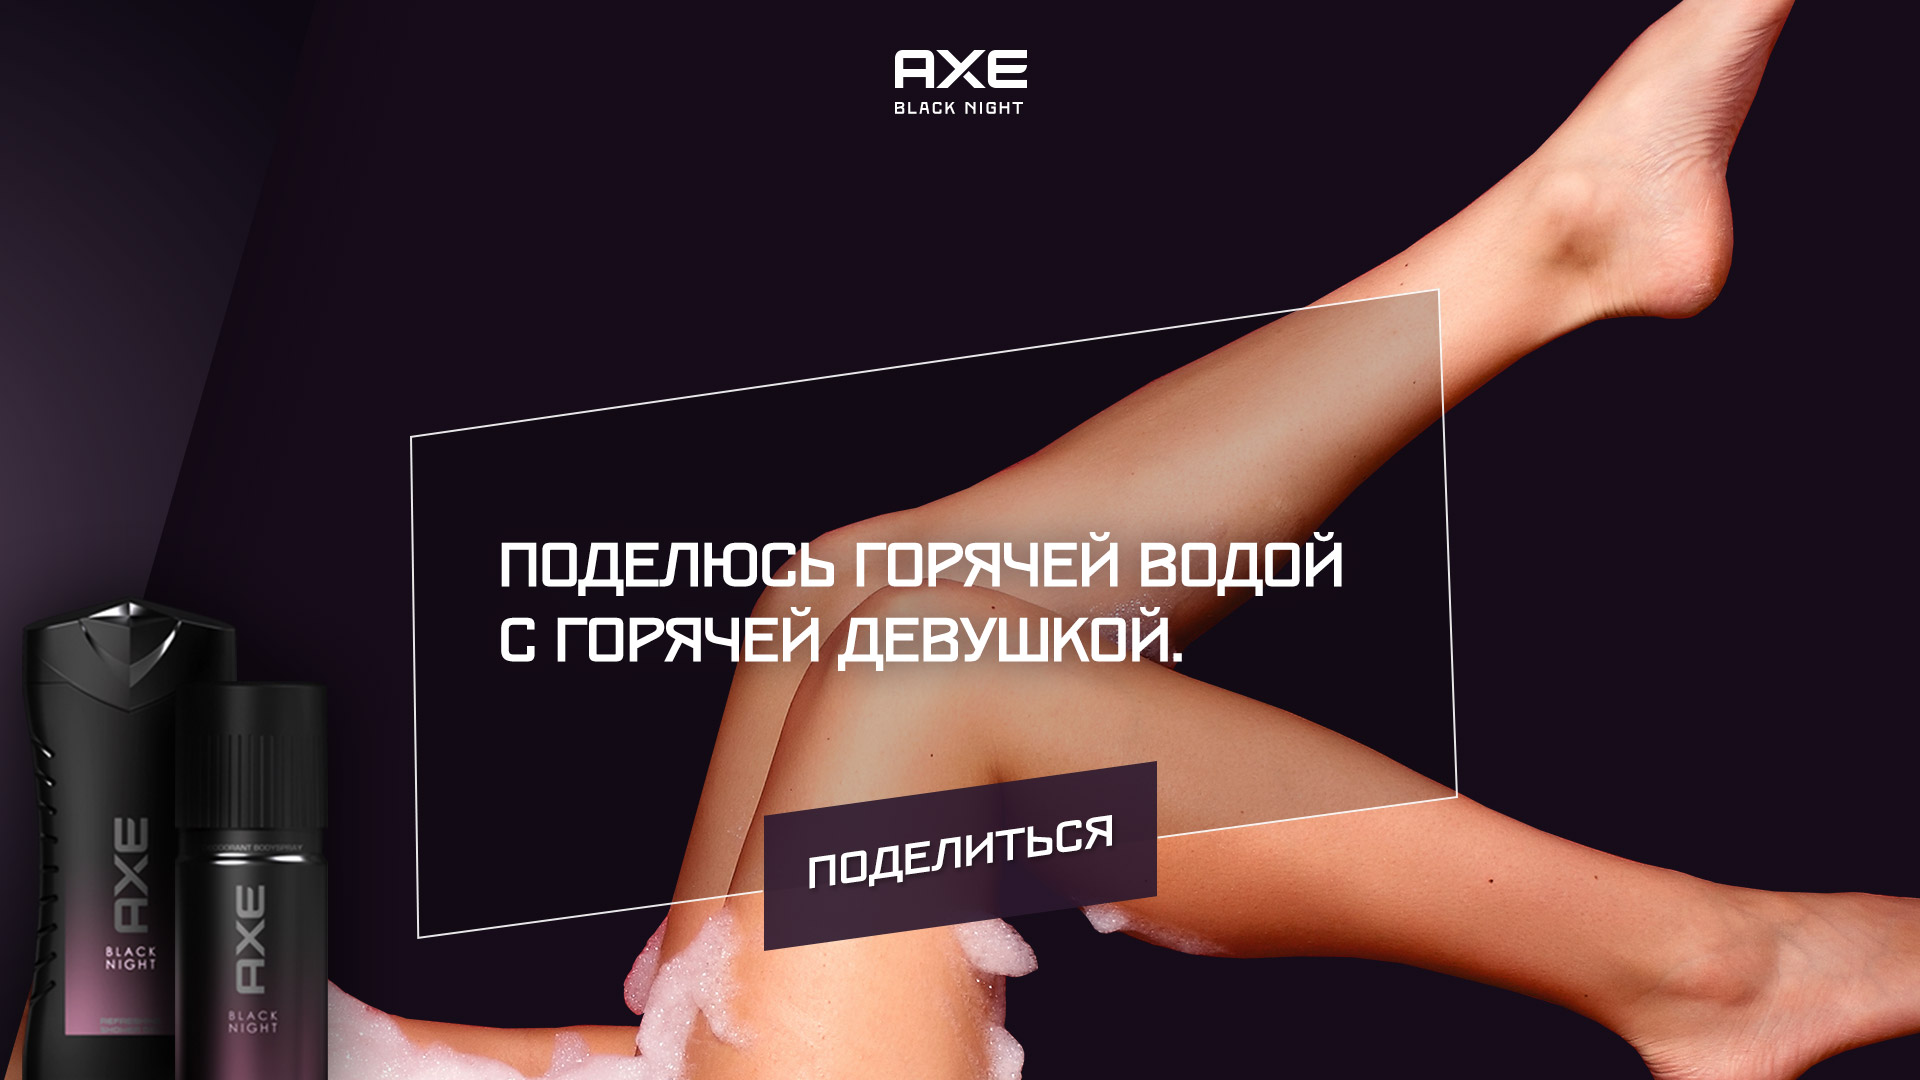
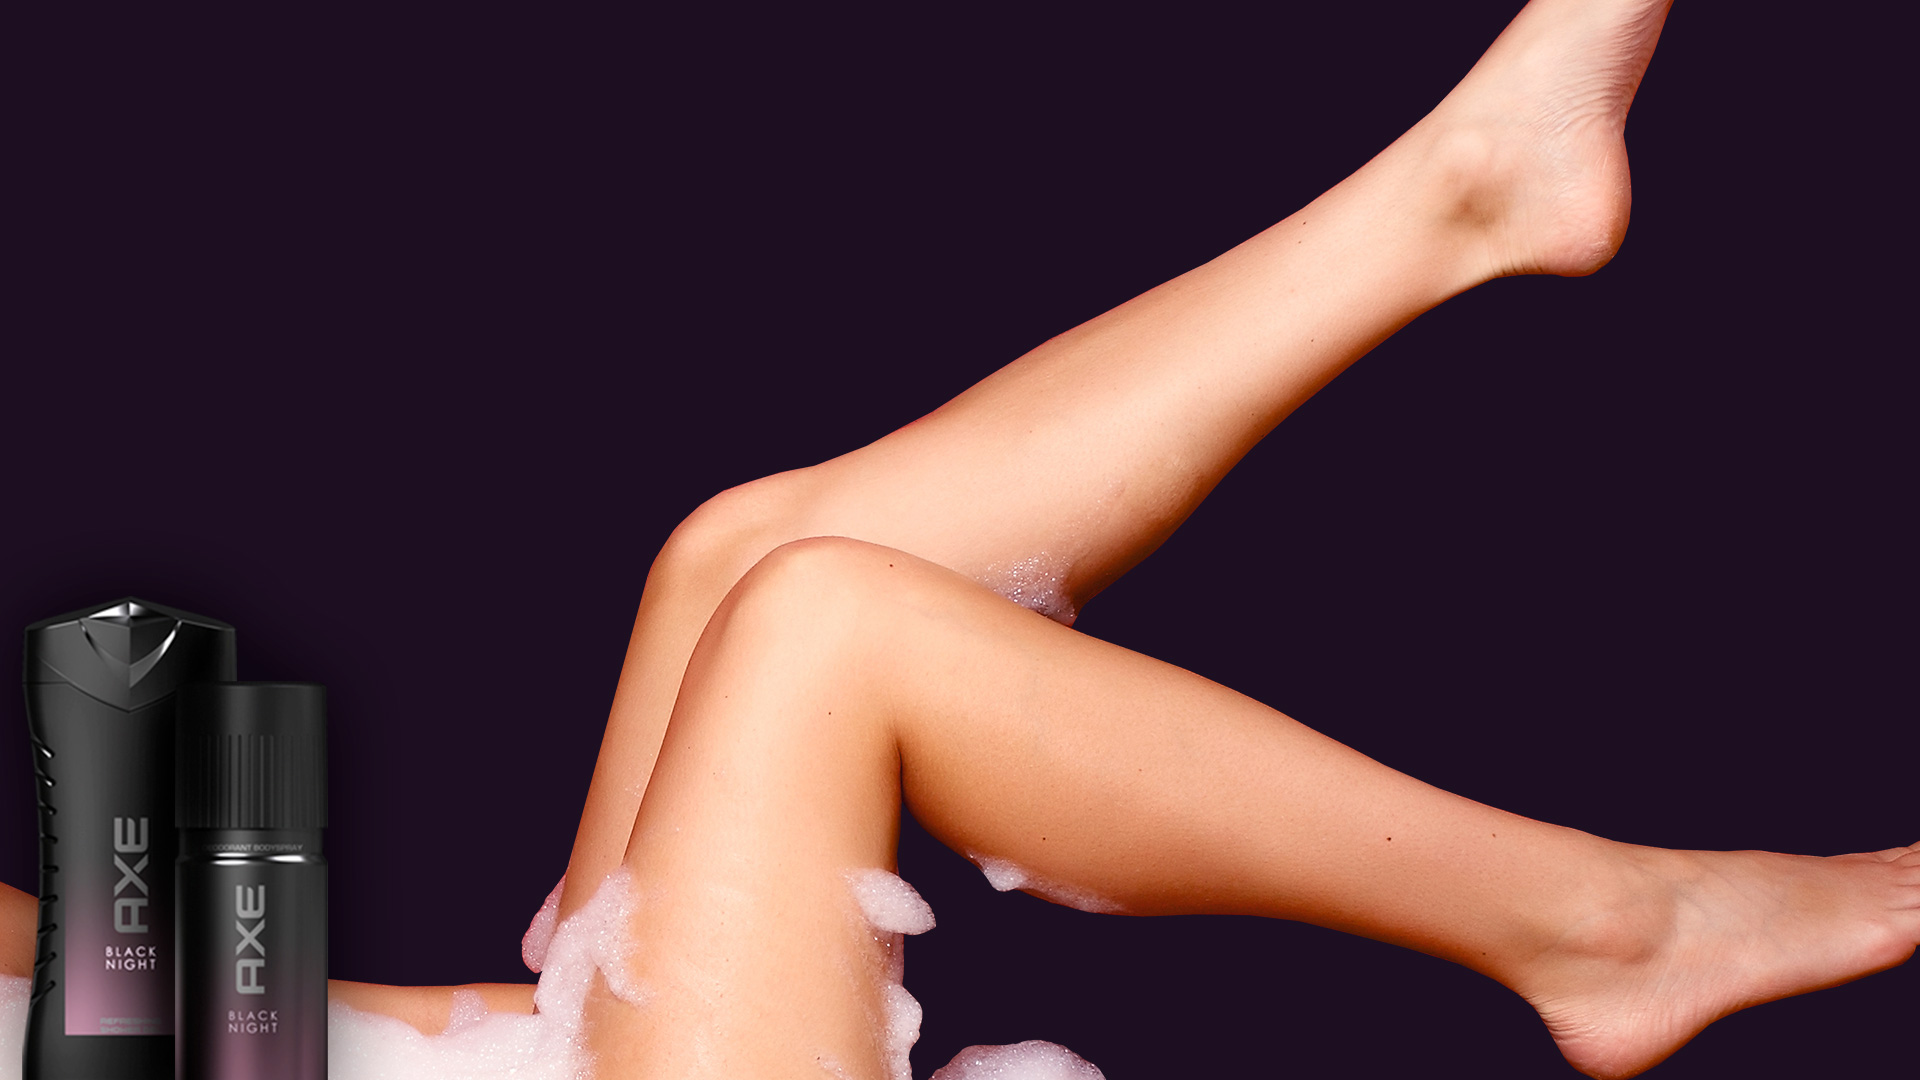
main screens desktop

diff --git a/assets/style.css b/assets/style.css
@@ -368,6 +368,7 @@ label {
 }
 
 .b_valign-cont {
+    position: relative;
     display: table-cell;
     vertical-align: middle;
 }
@@ -387,14 +388,38 @@ label {
     color: #ff3f3c;
 }
 
+.logo-sign.is-secondary {
+    color: white;
+    font-size: 1em;
+    line-height: 1.333em;
+    letter-spacing: 0.06em
+}
+
 .heading {
     transform: skew(-7.5deg) rotate(-7.5deg);
     color: white;
-    padding: 2em 0 1em;
+
+    display: inline-block;
+    padding: 2em 2em 1em;
 
     font-size: 3.125em;
     line-height: 0.9em;
     letter-spacing: -0.12em
+}
+
+.heading.is-bordered {
+    padding-bottom: 2em;
+    border: 2px solid white;
+}
+
+.heading.is-bordered + .button {
+    transform: skew(-7.5deg) rotate(-7.5deg) translateY(-50%);
+
+    display: table;
+    margin: 0 auto;
+
+    padding-top: 1.25em;
+    padding-bottom: 1.25em;
 }
 
 .button-set {
@@ -426,6 +451,10 @@ label {
     .content {
         font-size: 12px;
     }
+    .heading.is-bordered {
+        padding-top: 1.25em;
+        padding-bottom: 1.25em;
+    }
 }
 
 @media screen and (max-height: 400px) {
@@ -441,9 +470,13 @@ label {
 
 .screen--for_man .screen__bg {
     background-image: url(man_start.jpg);
+    background-size: cover;
+    background-position: center;
 }
 .screen--for_m_water .screen__bg {
     background-image: url(man_water.jpg);
+    background-size: cover;
+    background-position: center;
 }
 .screen--for_m_water_share .screen__bg {
     background-image: url(man_water_share.jpg);
@@ -488,10 +521,12 @@ label {
     .select-circle--bottom {
         right: 7.5%;
         bottom: 3%;
+        z-index: 1;
     }
     .select-circle--top {
         left: 6vw;
         top: 4vw;
+        z-index: 1;
     }
 }
 @media screen and (max-width: 1280px) {

diff --git a/index.php b/index.php
@@ -98,7 +98,7 @@
                     <div class="content">
                         <div class="b_valign">
                             <div class="b_valign-cont">
-                                <h1 class="heading">О чем ты мечтаешь<br>в душе?</h1>
+                                <h2 class="heading">О чем ты мечтаешь<br>в душе?</h2>
                                 <div class="button-set">
                                     <label for="for_m_water" class="button">О горячей<br>воде</label>
                                     <label for="for_m_partner" class="button">О горячей<br>девушке</label>
@@ -114,19 +114,24 @@
                 <div class="screen__bg">
                     <label for="for_man" class="select-circle select-circle--bottom"></label>
                     <!--<label  class="select-back"></label>-->
-                    <div class="share-group">
-                        <div class="share-group__border"></div>
-                        <div class="share-group__text"></div>
-                        <label for="for_m_water_share" class="select-share"></label>
+                    <div class="top">
+                        <div class="logo"></div>
+                        <div class="logo-sign is-secondary">
+                            <script>
+                                count = randomInteger(2, 9);
+                                word = declOfNum(count, ['девушка', 'девушки', 'девушек']);
+                                document.write(count + ' ' + word);
+                            </script>
+                            рядом с тобой<br> мечтают о&nbsp;серьезном теплом душе
+                        </div>
                     </div>
-
-                    <div class="screen__random">
-                        <script>
-                            count = randomInteger(2, 9);
-                            word = declOfNum(count, ['девушка', 'девушки', 'девушек']);
-                            document.write(count + ' ' + word);
-                        </script>
-                        рядом с тобой<br> мечтают о&nbsp;серьезном теплом душе
+                    <div class="content">
+                        <div class="b_valign">
+                            <div class="b_valign-cont">
+                                <h2 class="heading is-bordered">Ищу девушку с теплом<br>в душе</h2>
+                                <label for="for_m_water_share" class="button">Поделиться</label>
+                            </div>
+                        </div>
                     </div>
                 </div>
             </div>
@@ -136,19 +141,28 @@
                 <div class="screen__bg">
                     <label for="for_man" class="select-circle select-circle--top"></label>
                     <!--<label  class="select-back"></label>-->
-                    <div class="share-group">
-                        <div class="share-group__border"></div>
-                        <div class="share-group__text"></div>
-                        <label for="for_m_share" class="select-share"></label>
+                    <div class="top">
+                        <div class="logo"></div>
+                        <div class="logo-sign is-secondary">
+                            У
+                            <script>
+                                count = randomInteger(2, 9);
+                                ending = declOfNum(count, ['', '', '']);
+                                document.write(count + ending);
+                            </script>
+                            девушек в этом вагоне есть<br> горячая вода, но нет планов на вечер
+                        </div>
                     </div>
-                    <div class="screen__random">
-                        У
-                        <script>
-                            count = randomInteger(2, 9);
-                            ending = declOfNum(count, ['', '', '']);
-                            document.write(count + ending);
-                        </script>
-                        девушек в этом вагоне есть<br> горячая вода, но нет планов на вечер
+                    <div class="content">
+                        <div class="b_valign">
+                            <div class="b_valign-cont">
+                                <h2 class="heading is-bordered">
+                                    Поделюсь горячей водой<br>
+                                    с горячей девушкой
+                                </h2>
+                                <label for="for_m_share" class="button">Поделиться</label>
+                            </div>
+                        </div>
                     </div>
                 </div>
             </div>
